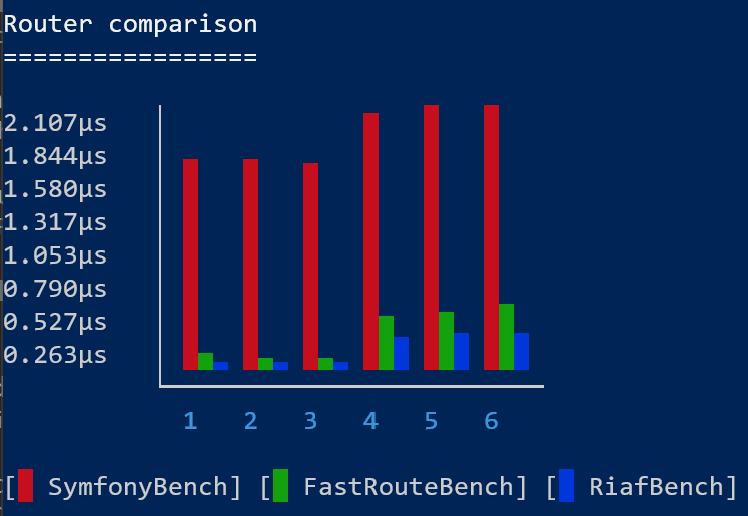
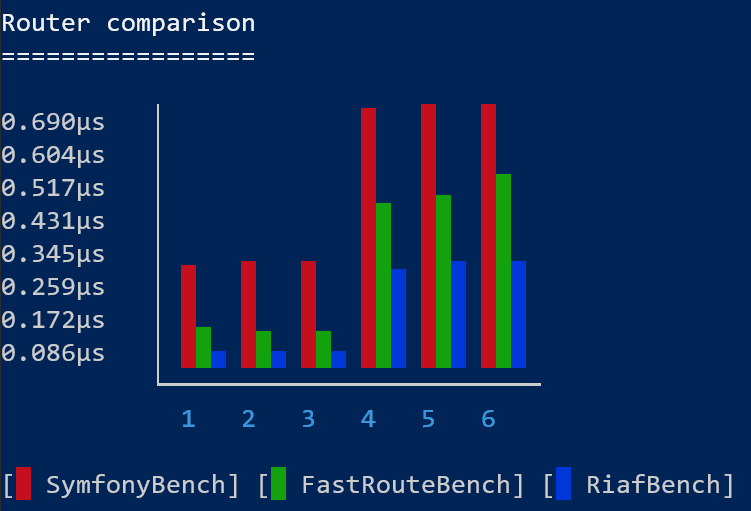
chore: Update Results.md chore: Remove AutoRouteBench.php from Routerbenchmarks cause it's too slow

diff --git a/benchmark/SymfonyBench.php b/benchmark/SymfonyBench.php
@@ -3,6 +3,7 @@
 namespace Benchmark;
 
 use PhpBench\Attributes\BeforeMethods;
+use PhpBench\Attributes\Groups;
 use PhpBench\Attributes\ParamProviders;
 use Symfony\Component\Routing\Loader\ClosureLoader;
 use Symfony\Component\Routing\Matcher\UrlMatcherInterface;
@@ -10,6 +11,7 @@ use Symfony\Component\Routing\Route;
 use Symfony\Component\Routing\RouteCollection;
 use Symfony\Component\Routing\Router;
 
+#[Groups(["RouterBenchmark"])]
 class SymfonyBench extends AbstractRouter
 {
     private UrlMatcherInterface $router;

diff --git a/benchmark/AbstractRouter.php b/benchmark/AbstractRouter.php
@@ -4,7 +4,6 @@ namespace Benchmark;
 
 use Generator;
 use PhpBench\Attributes\BeforeMethods;
-use PhpBench\Attributes\Groups;
 use PhpBench\Attributes\Iterations;
 use PhpBench\Attributes\ParamProviders;
 use PhpBench\Attributes\Revs;
@@ -12,7 +11,6 @@ use Psr\Container\ContainerInterface;
 
 #[Iterations(100)]
 #[Revs(1000)]
-#[Groups(["RouterBenchmark"])]
 abstract class AbstractRouter
 {
     protected ContainerInterface $container;

diff --git a/benchmark/FastRouteBench.php b/benchmark/FastRouteBench.php
@@ -5,9 +5,11 @@ namespace Benchmark;
 use FastRoute\Dispatcher;
 use FastRoute\RouteCollector;
 use PhpBench\Attributes\BeforeMethods;
+use PhpBench\Attributes\Groups;
 use PhpBench\Attributes\ParamProviders;
 use function FastRoute\cachedDispatcher;
 
+#[Groups(["RouterBenchmark"])]
 class FastRouteBench extends AbstractRouter
 {
     private Dispatcher $dispatcher;

diff --git a/benchmark/RiafBench.php b/benchmark/RiafBench.php
@@ -3,9 +3,11 @@
 namespace Benchmark;
 
 use PhpBench\Attributes\BeforeMethods;
+use PhpBench\Attributes\Groups;
 use PhpBench\Attributes\ParamProviders;
 use Riaf\Router;
 
+#[Groups(["RouterBenchmark"])]
 class RiafBench extends AbstractRouter
 {
     private Router $router;

diff --git a/Results.md b/Results.md
@@ -27,17 +27,30 @@ because that was the first thing we got rid of for Victoria. And it paid off.
 
 ![Image](images/Benchmark_Graph.png)
 
+### AutoRoute (removed from graph as it would dwarf any other router)
+
+````
+| benchmark      | set                  | revs | its | mem_peak  | mode     |
++----------------+----------------------+------+-----+-----------+----------+
+| AutoRouteBench | Static Best Case     | 1000 | 100 | 1.245mb   | 11.350μs |
+| AutoRouteBench | Static Average Case  | 1000 | 100 | 1.245mb   | 11.320μs |
+| AutoRouteBench | Static Worst Case    | 1000 | 100 | 1.245mb   | 11.428μs |
+| AutoRouteBench | Dynamic Best Case    | 1000 | 100 | 1.627mb   | 5.726μs  |
+| AutoRouteBench | Dynamic Average Case | 1000 | 100 | 1.667mb   | 5.663μs  |
+| AutoRouteBench | Dynamic Worst Case   | 1000 | 100 | 1.667mb   | 5.697μs  |
+````
+
 ### Symfony
 
 ````
 | benchmark      | set                  | revs | its | mem_peak  | mode    |
 +----------------+----------------------+------+-----+-----------+---------+
-| SymfonyBench   | Static Best Case     | 1000 | 100 | 953.728kb | 1.656μs |
-| SymfonyBench   | Static Average Case  | 1000 | 100 | 888.800kb | 1.670μs |
-| SymfonyBench   | Static Worst Case    | 1000 | 100 | 888.800kb | 1.641μs |
-| SymfonyBench   | Dynamic Best Case    | 1000 | 100 | 888.808kb | 2.041μs |
-| SymfonyBench   | Dynamic Average Case | 1000 | 100 | 888.808kb | 2.094μs |
-| SymfonyBench   | Dynamic Worst Case   | 1000 | 100 | 888.808kb | 2.107μs |
+| SymfonyBench   | Static Best Case     | 1000 | 100 | 953.728kb | 0.264μs |
+| SymfonyBench   | Static Average Case  | 1000 | 100 | 888.800kb | 0.280μs |
+| SymfonyBench   | Static Worst Case    | 1000 | 100 | 888.800kb | 0.273μs |
+| SymfonyBench   | Dynamic Best Case    | 1000 | 100 | 888.808kb | 0.674μs |
+| SymfonyBench   | Dynamic Average Case | 1000 | 100 | 888.808kb | 0.680μs |
+| SymfonyBench   | Dynamic Worst Case   | 1000 | 100 | 888.808kb | 0.686μs |
 ````
 
 ### FastRoute
@@ -125,8 +138,8 @@ Below are the best/worst cases of each router, for both static and dynamic route
 ````
 | benchmark      | set                  | revs | its | mem_peak  | mode    |
 +----------------+----------------------+------+-----+-----------+---------+
-| SymfonyBench   | Static Best Case     | 1000 | 100 | 953.728kb | 1.656μs |
-| SymfonyBench   | Static Worst Case    | 1000 | 100 | 888.800kb | 1.641μs |
+| SymfonyBench   | Static Best Case     | 1000 | 100 | 953.728kb | 0.264μs |
+| SymfonyBench   | Static Worst Case    | 1000 | 100 | 888.800kb | 0.273μs |
 | FastRouteBench | Static Best Case     | 1000 | 100 | 888.808kb | 0.103μs |
 | FastRouteBench | Static Worst Case    | 1000 | 100 | 888.808kb | 0.092μs |
 | RiafBench      | Static Best Case     | 1000 | 100 | 888.800kb | 0.043μs |
@@ -137,8 +150,8 @@ Below are the best/worst cases of each router, for both static and dynamic route
 ````
 | benchmark      | set                  | revs | its | mem_peak  | mode    |
 +----------------+----------------------+------+-----+-----------+---------+
-| SymfonyBench   | Dynamic Best Case    | 1000 | 100 | 888.808kb | 2.041μs |
-| SymfonyBench   | Dynamic Worst Case   | 1000 | 100 | 888.808kb | 2.107μs |
+| SymfonyBench   | Dynamic Best Case    | 1000 | 100 | 888.808kb | 0.674μs |
+| SymfonyBench   | Dynamic Worst Case   | 1000 | 100 | 888.808kb | 0.686μs |
 | FastRouteBench | Dynamic Best Case    | 1000 | 100 | 888.816kb | 0.419μs |
 | FastRouteBench | Dynamic Worst Case   | 1000 | 100 | 888.816kb | 0.507μs |
 | RiafBench      | Dynamic Best Case    | 1000 | 100 | 888.808kb | 0.260μs |
@@ -149,8 +162,8 @@ Below are the best/worst cases of each router, for both static and dynamic route
 ````
 | benchmark      | set                  | revs | its | mem_peak  | mode    |
 +----------------+----------------------+------+-----+-----------+---------+
-| SymfonyBench   | Static Best Case     | 1000 | 100 | 1.608mb   | 1.933μs |
-| SymfonyBench   | Static Worst Case    | 1000 | 100 | 1.097mb   | 2.049μs |
+| SymfonyBench   | Static Best Case     | 1000 | 100 | 1.608mb   | 0.271μs |
+| SymfonyBench   | Static Worst Case    | 1000 | 100 | 1.097mb   | 0.277μs |
 | FastRouteBench | Static Best Case     | 1000 | 100 | 888.808kb | 0.107μs |
 | FastRouteBench | Static Worst Case    | 1000 | 100 | 888.816kb | 0.095μs |
 | RiafBench      | Static Best Case     | 1000 | 100 | 1.889mb   | 0.043μs |
@@ -161,8 +174,8 @@ Below are the best/worst cases of each router, for both static and dynamic route
 ````
 | benchmark      | set                  | revs | its | mem_peak  | mode    |
 +----------------+----------------------+------+-----+-----------+---------+
-| SymfonyBench   | Dynamic Best Case    | 1000 | 100 | 1.097mb   | 2.635μs |
-| SymfonyBench   | Dynamic Worst Case   | 1000 | 100 | 1.097mb   | 2.710μs |
+| SymfonyBench   | Dynamic Best Case    | 1000 | 100 | 1.097mb   | 0.823μs |
+| SymfonyBench   | Dynamic Worst Case   | 1000 | 100 | 1.097mb   | 0.869μs |
 | FastRouteBench | Dynamic Best Case    | 1000 | 100 | 888.816kb | 0.434μs |
 | FastRouteBench | Dynamic Worst Case   | 1000 | 100 | 888.824kb | 1.597μs |
 | RiafBench      | Dynamic Best Case    | 1000 | 100 | 1.889mb   | 0.264μs |
@@ -173,8 +186,8 @@ Below are the best/worst cases of each router, for both static and dynamic route
 ````
 | benchmark      | set                  | revs | its | mem_peak  | mode    |
 +----------------+----------------------+------+-----+-----------+---------+
-| SymfonyBench   | Static Best Case     | 1000 | 100 | 6.249mb   | 5.505μs |
-| SymfonyBench   | Static Worst Case    | 1000 | 100 | 6.249mb   | 6.990μs |
+| SymfonyBench   | Static Best Case     | 1000 | 100 | 6.249mb   | 0.273μs |
+| SymfonyBench   | Static Worst Case    | 1000 | 100 | 6.249mb   | 0.278μs |
 | FastRouteBench | Static Best Case     | 1000 | 100 | 2.350mb   | 0.106μs |
 | FastRouteBench | Static Worst Case    | 1000 | 100 | 2.350mb   | 0.093μs |
 | RiafBench      | Static Best Case     | 1000 | 100 | 14.607mb  | 0.044μs |
@@ -185,8 +198,8 @@ Below are the best/worst cases of each router, for both static and dynamic route
 ````
 | benchmark      | set                  | revs | its | mem_peak  | mode     |
 +----------------+----------------------+------+-----+-----------+----------+
-| SymfonyBench   | Dynamic Best Case    | 1000 | 100 | 6.249mb   | 8.874μs  |
-| SymfonyBench   | Dynamic Worst Case   | 1000 | 100 | 6.249mb   | 9.285μs  |
+| SymfonyBench   | Dynamic Best Case    | 1000 | 100 | 6.249mb   | 2.517μs  |
+| SymfonyBench   | Dynamic Worst Case   | 1000 | 100 | 6.249mb   | 2.700μs  |
 | FastRouteBench | Dynamic Best Case    | 1000 | 100 | 2.350mb   | 0.427μs  |
 | FastRouteBench | Dynamic Worst Case   | 1000 | 100 | 2.350mb   | 13.860μs |
 | RiafBench      | Dynamic Best Case    | 1000 | 100 | 14.607mb  | 0.275μs  |
